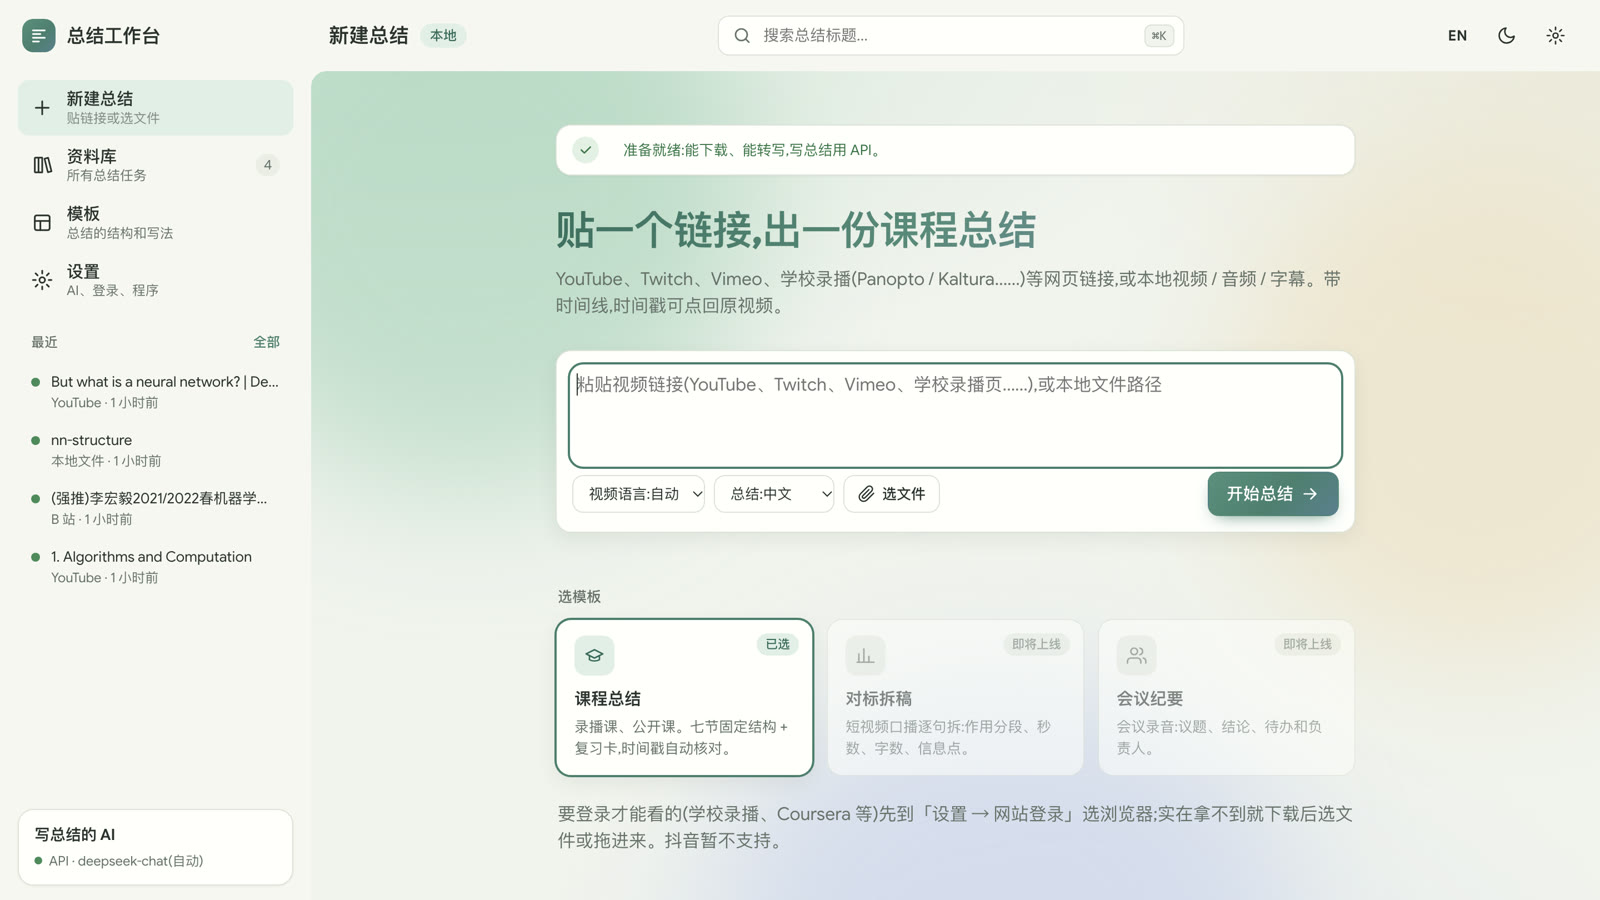
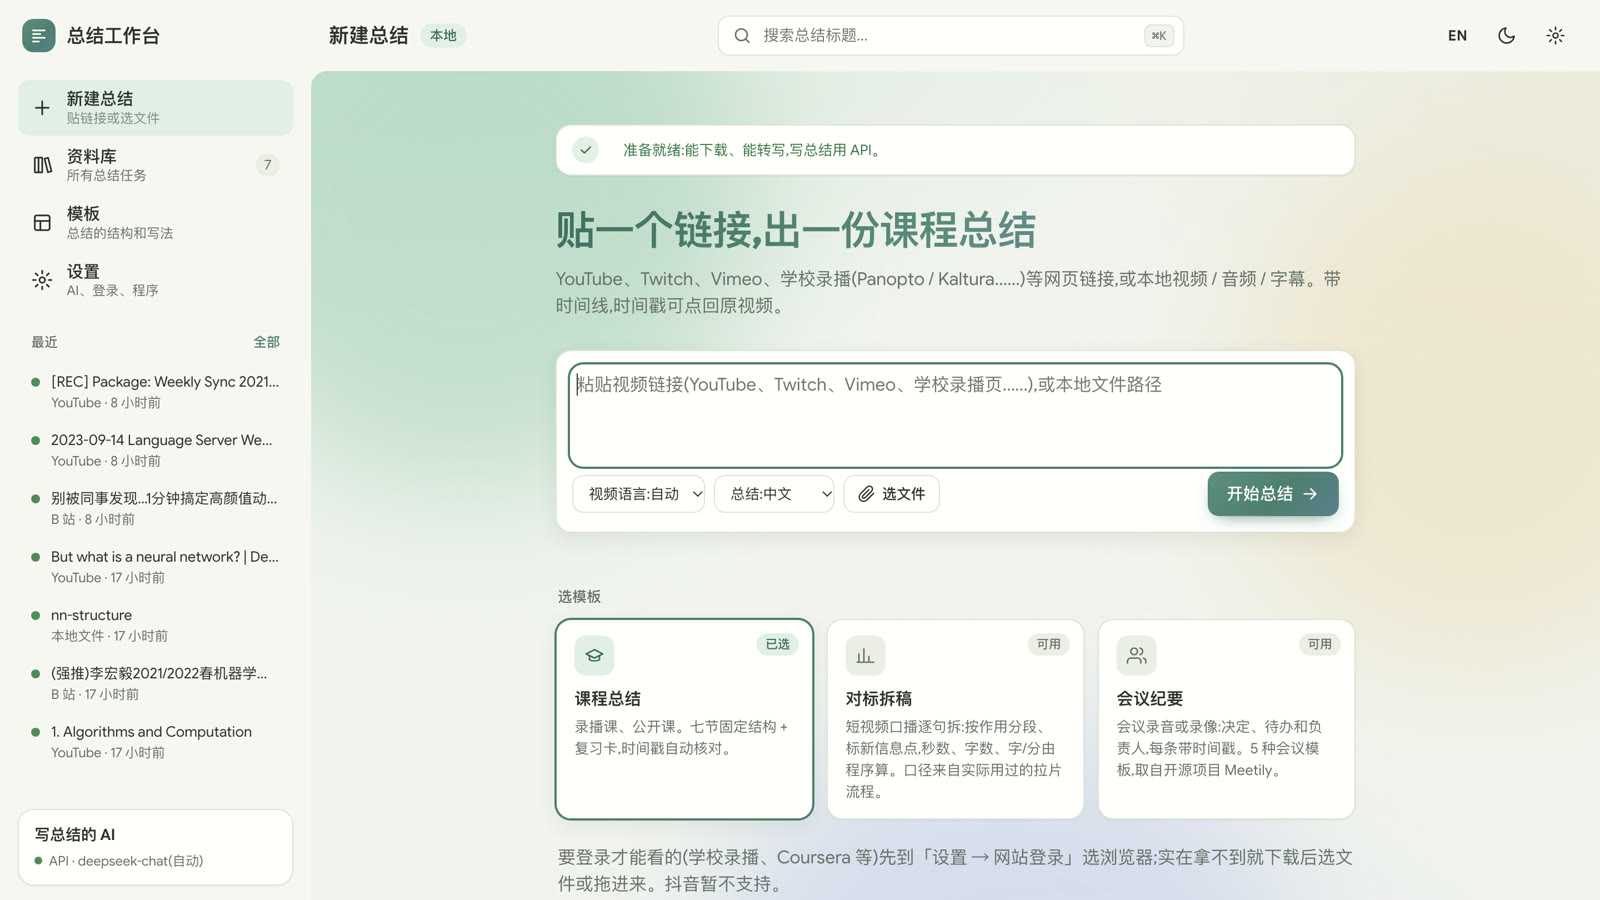
Lecture Workbench: add script-breakdown and meeting-notes templates to the write-up and screenshots

diff --git a/en/index.html b/en/index.html
@@ -309,11 +309,13 @@ footer .wrap{padding-block:26px;font-size:12.5px;color:var(--dim);border-top:1px
   </article>
 
   <article class="case" id="toolkit">
-    <div class="chead rv"><div><div class="no">03</div><div class="kind">AI workflow · Local web app</div><h2>Lecture Workbench</h2></div><p>Paste a lecture link, get a study summary that jumps back to the exact second.</p></div>
+    <div class="chead rv"><div><div class="no">03</div><div class="kind">AI workflow · Local web app</div><h2>Lecture Workbench</h2></div><p>Paste a link, get a summary that jumps back to the exact second: lecture summaries, script breakdowns and meeting notes.</p></div>
     <div data-gallery class="rv">
       <div class="tabs" role="group" aria-label="Lecture Workbench screenshots">
         <button aria-pressed="true" data-src="../img/lt-summary-en.jpg" data-c="Summary: four-step progress with timings, a timestamped summary, and chapters that jump back into the video">Summary</button>
-        <button aria-pressed="false" data-src="../img/lt-home-en.jpg" data-c="New summary: paste a YouTube, Twitch, Bilibili or lecture-capture link, or drop in a file">New summary</button>
+        <button aria-pressed="false" data-src="../img/lt-breakdown-en.jpg" data-c="Script breakdown: a short video split sentence by sentence; segments by role on the right, with seconds, word counts and pace computed by code">Script breakdown</button>
+        <button aria-pressed="false" data-src="../img/lt-meeting-en.jpg" data-c="Meeting notes: summary, decisions and action items, each tied to a timestamp">Meeting notes</button>
+        <button aria-pressed="false" data-src="../img/lt-home-en.jpg" data-c="New summary: paste a YouTube, Twitch, Bilibili or lecture-capture link, pick a template, or drop in a file">New summary</button>
         <button aria-pressed="false" data-src="../img/lt-library-en.jpg" data-c="Library: every summary, filterable by source and status">Library</button>
       </div>
       <div class="win" style="margin-top:16px"><div class="bar"><i></i><i></i><i></i><span data-t>Summary</span></div><img loading="lazy" decoding="async" src="../img/lt-summary-en.jpg" alt="Summary: four-step progress with timings, a timestamped summary, and chapters that jump back into the video"></div>
@@ -321,12 +323,12 @@ footer .wrap{padding-block:26px;font-size:12.5px;color:var(--dim);border-top:1px
     </div>
     <div class="cols rv">
       <div><h3>The problem</h3><p>Lecture recordings are too long to review, and when you ask an AI to summarise one directly, the timestamps are often made up. Most students also have a ChatGPT or Claude plan rather than an API key.</p></div>
-      <div><h3>What I built</h3><p>Paste a link and it uses the site's subtitles, or transcribes the audio on your own machine. The summary is written by the Claude Code or Codex account you're already signed in to (or any API), then every timestamp is checked and the AI fixes anything off. Click a timestamp and the video jumps to that second.</p></div>
-      <div><h3>My role</h3><p>Designed and built it end to end: the backend and task queue, the subtitle and transcription pipeline, three AI integrations, the bilingual interface, the first-run checklist and a one-command installer.</p></div>
+      <div><h3>What I built</h3><p>Paste a link and it uses the site's subtitles, or transcribes the audio on your own machine. The summary is written by the Claude Code or Codex account you're already signed in to (or any API), then every timestamp is checked and the AI fixes anything off. Click a timestamp and the video jumps to that second. Besides lecture summaries it can break down a short video sentence by sentence (seconds, word counts and pace computed by code, not estimated by the AI) or write meeting notes in five formats.</p></div>
+      <div><h3>My role</h3><p>Designed and built it end to end: the backend and task queue, the subtitle and transcription pipeline, three AI integrations, three summary templates, the bilingual interface, the first-run checklist and a one-command installer.</p></div>
     </div>
-    <ul class="proof rv"><li>Open source</li><li>No API key with a ChatGPT or Claude plan</li><li>YouTube · Twitch · Bilibili · lecture capture</li><li>English and Chinese</li><li>20 tests</li></ul>
+    <ul class="proof rv"><li>Open source</li><li>No API key with a ChatGPT or Claude plan</li><li>YouTube · Twitch · Bilibili · lecture capture</li><li>Lectures · script breakdowns · meetings</li><li>English and Chinese</li><li>25 tests</li></ul>
     <p class="stack">Python · FastAPI · SQLite · yt-dlp · whisper.cpp · Claude Code / Codex</p>
-    <div class="acts"><a class="btn sm" href="https://github.com/camzhou831-star/lecture-summary-toolkit">View code on GitHub</a><a class="btn sm" href="https://github.com/camzhou831-star/lecture-summary-toolkit#readme">Getting started</a><span class="note">Summaries in the screenshots come from public lectures (MIT OpenCourseWare, 3Blue1Brown, Hung-yi Lee's ML course).</span></div>
+    <div class="acts"><a class="btn sm" href="https://github.com/camzhou831-star/lecture-summary-toolkit">View code on GitHub</a><a class="btn sm" href="https://github.com/camzhou831-star/lecture-summary-toolkit#readme">Getting started</a><span class="note">Screenshots use public videos: MIT OpenCourseWare and 3Blue1Brown lectures, a public Bilibili short and GitLab's public team meetings. Meeting templates adapted from the open-source Meetily.</span></div>
   </article>
 
   <article class="case" id="jizhang">

diff --git a/index.html b/index.html
@@ -303,11 +303,13 @@ footer .wrap{padding-block:26px;font-size:12.5px;color:var(--dim);border-top:1px
   </article>
 
   <article class="case" id="toolkit">
-    <div class="chead rv"><div><div class="no">03</div><div class="kind">AI 工作流 · 本地网页应用</div><h2>课程总结工作台</h2></div><p>贴一个课程链接，出一份能点回原片的复习总结。</p></div>
+    <div class="chead rv"><div><div class="no">03</div><div class="kind">AI 工作流 · 本地网页应用</div><h2>课程总结工作台</h2></div><p>贴一个链接，出一份能点回原片的总结：课程总结、对标拆稿、会议纪要三种模板。</p></div>
     <div data-gallery class="rv">
       <div class="tabs" role="group" aria-label="课程总结工作台截图">
         <button aria-pressed="true" data-src="img/lt-summary.jpg" data-c="总结页：四步进度和用时、带时间戳的总结、右侧章节一点就跳回原视频那一秒">总结页</button>
-        <button aria-pressed="false" data-src="img/lt-home.jpg" data-c="新建：贴 YouTube、Twitch、B 站或学校录播链接，也可以拖文件进来">新建</button>
+        <button aria-pressed="false" data-src="img/lt-breakdown.jpg" data-c="对标拆稿：一条短视频逐句拆，右侧是按作用分的段，秒数、字数、语速由程序算">对标拆稿</button>
+        <button aria-pressed="false" data-src="img/lt-meeting.jpg" data-c="会议纪要：项目同步模板，里程碑、风险、关键决定和待办，每条带时间戳">会议纪要</button>
+        <button aria-pressed="false" data-src="img/lt-home.jpg" data-c="新建：贴 YouTube、Twitch、B 站或学校录播链接，选模板，也可以拖文件进来">新建</button>
         <button aria-pressed="false" data-src="img/lt-library.jpg" data-c="资料库：所有总结，按来源和状态筛选">资料库</button>
       </div>
       <div class="win" style="margin-top:16px"><div class="bar"><i></i><i></i><i></i><span data-t>总结页</span></div><img loading="lazy" decoding="async" src="img/lt-summary.jpg" alt="总结页：四步进度和用时、带时间戳的总结、右侧章节一点就跳回原视频那一秒"></div>
@@ -315,12 +317,12 @@ footer .wrap{padding-block:26px;font-size:12.5px;color:var(--dim);border-top:1px
     </div>
     <div class="cols rv">
       <div><h3>原来的问题</h3><p>录播课太长，复习时找不到重点在哪一分钟。直接让 AI 总结，时间戳经常是编的；而且大多数学生只有 ChatGPT 或 Claude 会员，没有 API Key。</p></div>
-      <div><h3>做了什么</h3><p>贴链接后先找现成字幕，没有就在本机转写；交给你已经登录的 Claude Code 或 Codex（也可以用 API）写总结。写完逐条核对时间戳，不对就让 AI 改一轮。点任意时间戳，直接跳回视频那一秒。</p></div>
-      <div><h3>我负责</h3><p>全部设计和开发：后端和任务队列、拿字幕和转写的流程、三种 AI 接入、中英双语界面、新手检查和一键安装脚本。</p></div>
+      <div><h3>做了什么</h3><p>贴链接后先找现成字幕，没有就在本机转写；交给你已经登录的 Claude Code 或 Codex（也可以用 API）写总结。写完逐条核对时间戳，不对就让 AI 改一轮。点任意时间戳，直接跳回视频那一秒。除了课程总结，还能给短视频逐句拆稿（秒数、字数、语速由程序算，不让 AI 估），或者按 5 种会议模板写纪要。</p></div>
+      <div><h3>我负责</h3><p>全部设计和开发：后端和任务队列、拿字幕和转写的流程、三种 AI 接入、三种总结模板、中英双语界面、新手检查和一键安装脚本。</p></div>
     </div>
-    <ul class="proof rv"><li>开源</li><li>有会员就不用 API Key</li><li>YouTube · Twitch · B 站 · 学校录播</li><li>中英双语</li><li>20 个测试</li></ul>
+    <ul class="proof rv"><li>开源</li><li>有会员就不用 API Key</li><li>YouTube · Twitch · B 站 · 学校录播</li><li>课程总结 · 对标拆稿 · 会议纪要</li><li>中英双语</li><li>25 个测试</li></ul>
     <p class="stack">Python · FastAPI · SQLite · yt-dlp · whisper.cpp · Claude Code / Codex</p>
-    <div class="acts"><a class="btn sm" href="https://github.com/camzhou831-star/lecture-summary-toolkit">在 GitHub 上看代码</a><a class="btn sm" href="https://github.com/camzhou831-star/lecture-summary-toolkit/blob/main/README.zh.md">上手说明</a><span class="note">截图里的总结来自公开课（MIT OpenCourseWare、3Blue1Brown、李宏毅机器学习）。</span></div>
+    <div class="acts"><a class="btn sm" href="https://github.com/camzhou831-star/lecture-summary-toolkit">在 GitHub 上看代码</a><a class="btn sm" href="https://github.com/camzhou831-star/lecture-summary-toolkit/blob/main/README.zh.md">上手说明</a><span class="note">截图里的内容来自公开视频：MIT OpenCourseWare、3Blue1Brown 的课，B 站公开短视频，GitLab 公开的团队周会。会议模板改编自开源项目 Meetily。</span></div>
   </article>
 
   <article class="case" id="jizhang">
